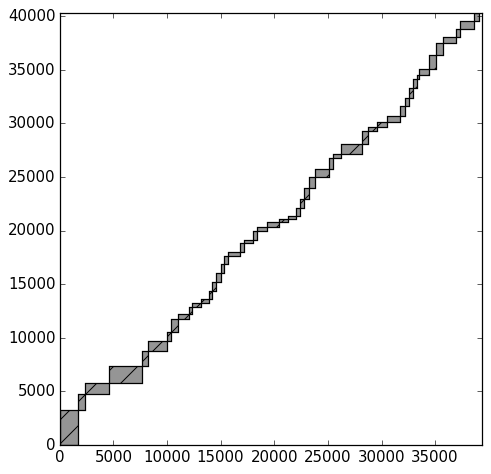
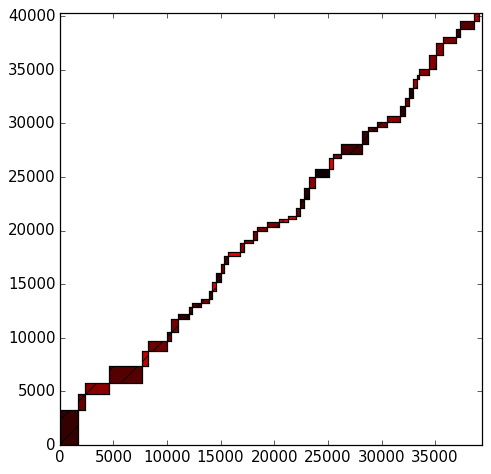
Add coloring by relative number of connections

diff --git a/parseData.py b/parseData.py
@@ -55,7 +55,7 @@ def parseNetlists(dataset):
 	return netlists
 
 # Capture the number of connections between modules
-def createConnectionMatrix(netlists, dictionary):
+def createConnectionMatrix(netlists, dictionary,rectangles):
 	length = len(dictionary)
 	matrix = np.zeros((length,length))
 
@@ -65,6 +65,15 @@ def createConnectionMatrix(netlists, dictionary):
 				#print(i + "|" + j)
 				if dictionary[i]!=dictionary[j]:
 					matrix[dictionary[i],dictionary[j]] += 1
+
+	# Add connection values to rectangles
+	sums = np.sum(matrix,0)
+
+	for i in range(length):
+		rectangles[i].connections = sums[i]
+		rectangles[i].connectionsRatio = sums[i]/np.max(sums)
+		#print(sums[i])
+	#print(np.sum(sums))
 
 	return matrix
 
@@ -97,7 +106,10 @@ def createDiagonal(dataset):
 	return rectangles
 
 def printDiagonal(dataset):
-	rectangles = importDiagonal(dataset)
+	rectangles = createDiagonal(dataset)
+	netlists = parseNetlists(dataset)
+	dictionary = createDictionary(rectangles)
+	matrix = createConnectionMatrix(netlists,dictionary,rectangles)	
 
 	# Print rectangles
 	pf.printFloorplan(rectangles,"Output/"+dataset+".png")
@@ -125,14 +137,14 @@ def diagonalTest():
 	for ds in datasets:
 		printDiagonal(ds)
 
-#diagonalTest()
+diagonalTest()
 
 
 def check(ds):
 	rectangles = parseBlocks(ds)
 	netlists = parseNetlists(ds)
 	dictionary = createDictionary(rectangles)
-	matrix = createConnectionMatrix(netlists,dictionary)
+	matrix = createConnectionMatrix(netlists,dictionary,rectangles)
 
 
 	def printChecks():

diff --git a/classes.py b/classes.py
@@ -1,3 +1,6 @@
+import matplotlib.pyplot as plt
+import matplotlib.patches as patches
+
 ########################################################################
 # A single rect represents a module, along with geographic data
 class Rect:
@@ -7,6 +10,8 @@ class Rect:
 		self.w = inW
 		self.h = inH
 		self.name = name
+		self.connections = 0
+		self.connectionsRatio = 0
 
 	def makePatch(self):
 		p = patches.Rectangle(

diff --git a/printFloorplan.py b/printFloorplan.py
@@ -58,7 +58,13 @@ def printFloorplan(rectangles,outfile):
 	#ax1.set_xticks([])
 
 	for j in range(len(rectangles)):
-		ax1.add_patch(rectangles[j].makePatch())
+		p = rectangles[j].makePatch()
+		#p.set_facecolor("#FF0000")
+		p.set_facecolor((rectangles[j].connectionsRatio,0,0))
+		#p.set_facecolor((1,0,0))
+		ax1.add_patch(p)
+
+
 		
 	fig1.savefig(outfile, dpi=90, bbox_inches='tight')
 
